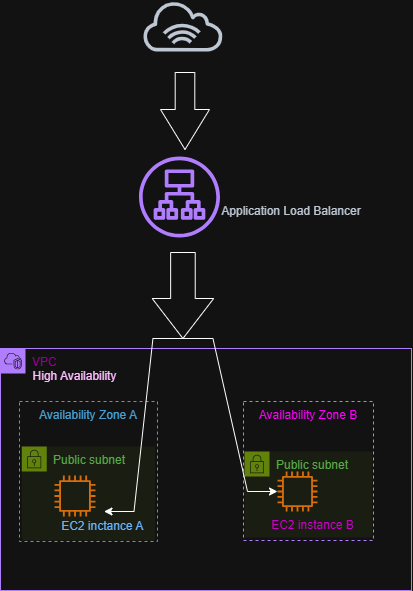
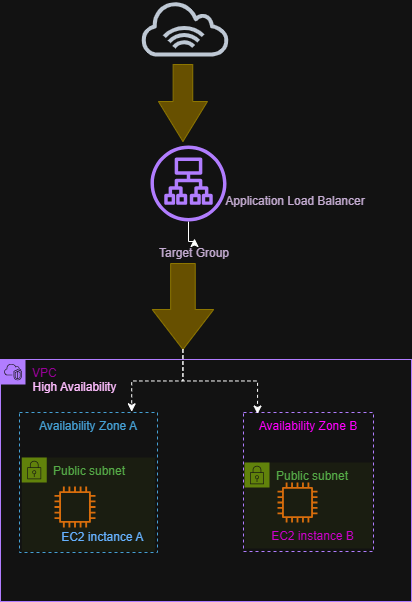
Add Auto Scaling architecture diagram and documentation and modified ELB architecture

diff --git a/Compute-and -Storage/Auto-Scaling/README.md b/Compute-and -Storage/Auto-Scaling/README.md
@@ -1,0 +1,91 @@
+# Amazon EC2 Auto Scaling
+
+## Overview
+
+This project demonstrates how **Amazon EC2 Auto Scaling** can be used to maintain application availability by automatically managing the number of EC2 instances running in an application environment.
+
+The architecture uses an **Application Load Balancer (ALB)** to distribute incoming traffic across EC2 instances running in multiple Availability Zones. An Auto Scaling Group manages the EC2 instances and can add or remove instances based on demand.
+
+## Architecture
+
+The architecture includes:
+
+* Amazon VPC
+* Two Availability Zones
+* Two public subnets
+* Application Load Balancer
+* Target Group
+* EC2 instances
+* EC2 Auto Scaling Group
+* Internet access
+
+### Traffic Flow
+
+```text
+Internet
+   ↓
+Application Load Balancer
+
+   Target Group
+   ↓
+ ┌───────────────┐
+ │               │
+AZ-A            AZ-B
+ │               │
+EC2-A           EC2-B
+ ↑               ↑
+ └──── Auto Scaling ────┘
+```
+Tools Used 
+draw.io / diagrams.net with offical AWS architecture icons , used to drsign and document the architecture shown above
+## What I Learned
+
+Through this project, I learned:
+
+* What Amazon EC2 Auto Scaling is
+* How an Auto Scaling Group manages EC2 instances
+* How Auto Scaling can increase or decrease the number of instances based on demand
+* Why running instances across multiple Availability Zones improves availability
+* How an Application Load Balancer distributes traffic across multiple EC2 instances
+* How Auto Scaling and load balancing work together
+* The difference between handling application traffic and managing instance capacity
+
+## Project Diagram
+
+![Auto Scaling Architecture](Diagrams/Auto-Scaling-Diagram.png)
+
+## Key Concepts
+
+### Auto Scaling Group
+
+An Auto Scaling Group maintains a desired number of EC2 instances and can automatically launch or terminate instances according to configured conditions.
+
+### Application Load Balancer
+
+The Application Load Balancer receives incoming application traffic and distributes it across healthy EC2 instances.
+
+### Availability Zones
+
+The EC2 instances are placed across two Availability Zones. This helps reduce the impact of a failure affecting a single Availability Zone.
+
+## Skills Practiced
+
+* AWS EC2
+* EC2 Auto Scaling
+* Application Load Balancer
+* VPC networking
+* Availability Zones
+* High availability
+* Cloud architecture
+* AWS infrastructure diagrams
+
+## Project Outcome
+
+This project helped me understand how AWS services can work together to create a **scalable and highly available application architecture**.
+
+The diagram represents the architecture and the relationship between the Load Balancer, Auto Scaling Group, EC2 instances, Availability Zones, and VPC.
+
+## Hands-on Practice
+
+> No AWS console lab was completed for this exercise because a suitable free hands-on EC2 Auto Scaling lab was not available without requiring an AWS payment card.
+
